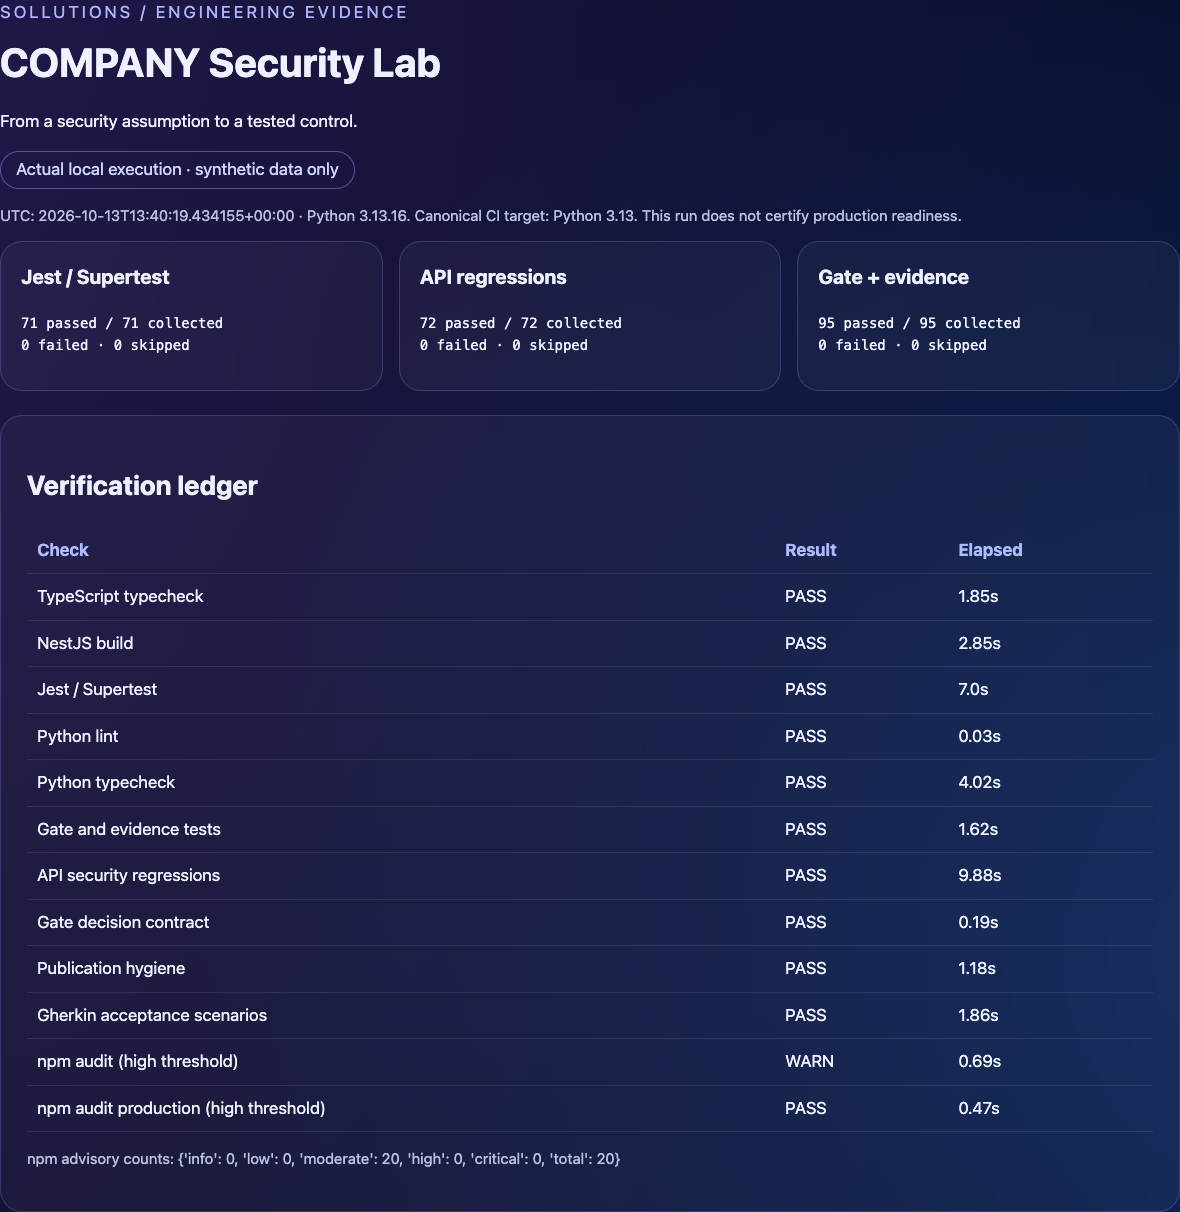
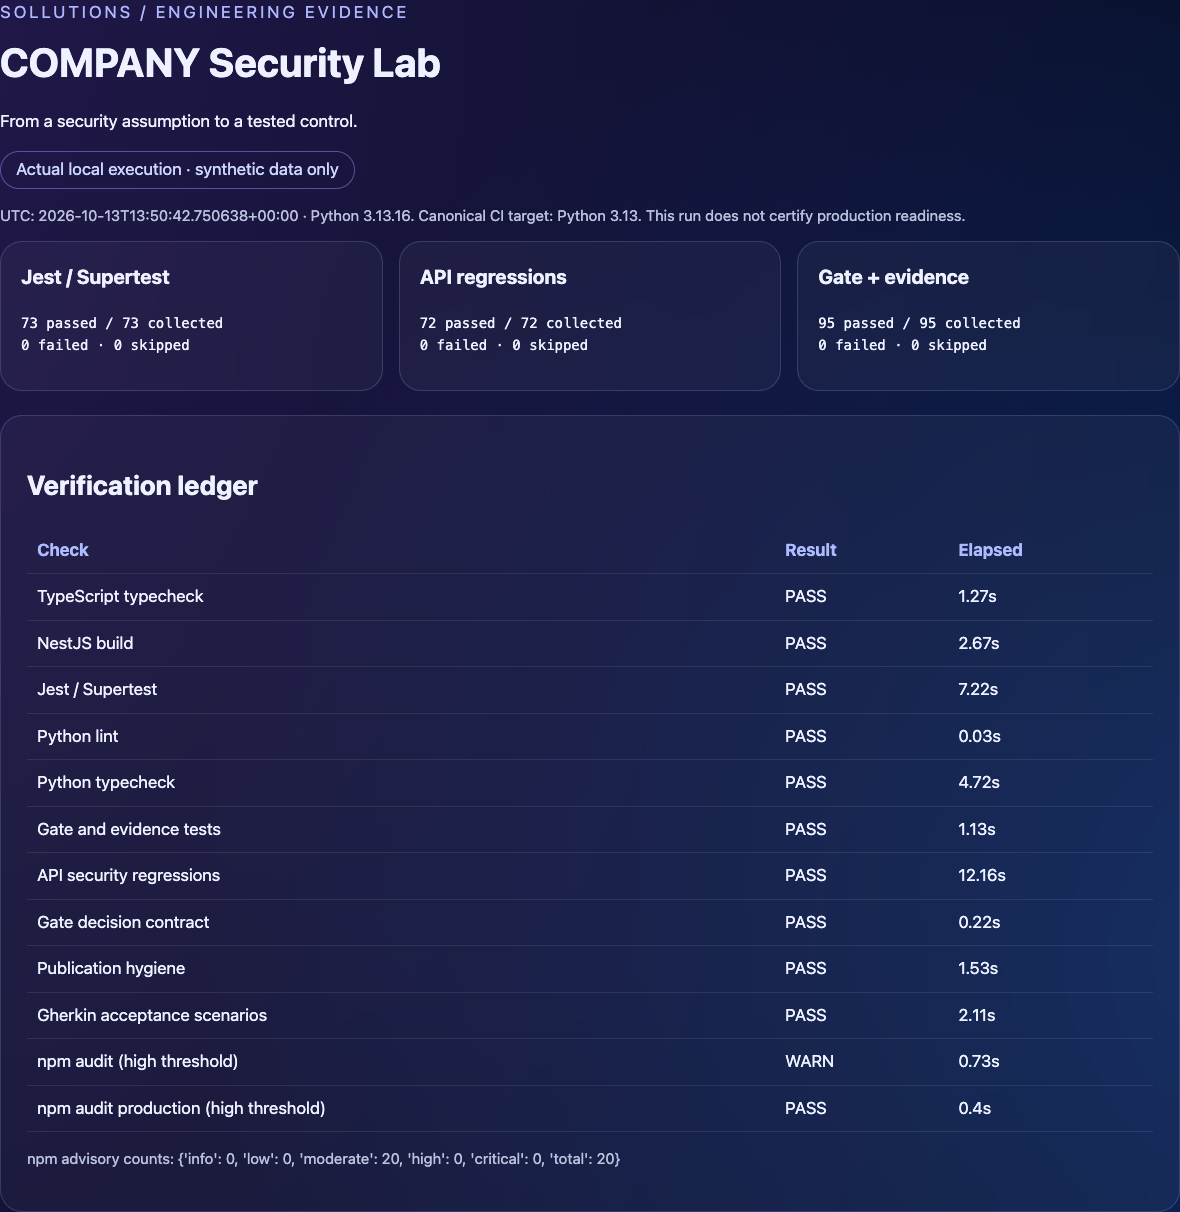
Record CodeQL remediation, verified provenance and final test evidence

diff --git a/docs/evidence/github-ci-verification-2026-10-13.md b/docs/evidence/github-ci-verification-2026-10-13.md
@@ -37,11 +37,16 @@ Commit: `8ac4cbefb6e7afe21a5c78daed598ff67d7d9377`.
 
 Historical failed runs remain visible. Successful checks do not erase earlier failures or unresolved risks.
 
-## Prioritization and next actions
-
 ## Public integration phase
 
-Repository visibility was changed to public with the owner's explicit approval after the private-phase checks passed. Public CodeQL/deep verification and release provenance were dispatched separately: [deep run](https://github.com/SollutionsIT/security_lab_2/actions/runs/38407384264), [release run](https://github.com/SollutionsIT/security_lab_2/actions/runs/38407388676). Their conclusions must be checked before calling these integrations verified.
+Repository visibility was changed to public with the owner's explicit approval after the private-phase checks passed.
+
+- [First public deep run](https://github.com/SollutionsIT/security_lab_2/actions/runs/38407384264): **SUCCESS**, including actual CodeQL analysis/SARIF upload, container/SBOM and isolated API/ZAP. CodeQL found three source warnings; successful execution was not treated as zero findings.
+- CodeQL triage: `js/polynomial-redos` identified repeated rescanning by the XML tag regex. The scanner now excludes nested opening delimiters; the existing 32 KiB input cap remains. Two `js/path-injection` alerts identified request-name flows into download filesystem operations. Strict UUID/extension validation and confinement already existed; no traversal exploit was demonstrated. Download now resolves the server-owned repository key and reads one `O_NOFOLLOW` file handle with size/type checks, avoiding the lstat/read symlink race. No rule suppression or source exclusion was added to hide these findings.
+- [CodeQL reanalysis](https://github.com/SollutionsIT/security_lab_2/actions/runs/38408100980) on commit `b8c01b1a24d970b78e7482a5d10801cc189f8625`: the CodeQL job passed and downloaded SARIF contains **zero findings**. Two regression tests cover maximum-size malformed XML delimiters and replacement upload symlinks.
+- [Fresh native verification](https://github.com/SollutionsIT/security_lab_2/actions/runs/38408109348): **SUCCESS**, 73 Jest, 72 API, 95 gate/evidence and 14 Gherkin cases; no skips. The full local command also passed after these code changes. README screenshots use this later actual artifact; the earlier 71-case record above remains historical.
+- [Release evidence](https://github.com/SollutionsIT/security_lab_2/actions/runs/38407388676): **SUCCESS**. Built a Docker candidate, scanned/gated it, generated an actual image CycloneDX SBOM, retained tar/checksum and created GitHub build-provenance attestation. Downloaded tar checksum passed and `gh attestation verify ... --repo SollutionsIT/security_lab_2` exited successfully. This run attests the pre-CodeQL-fix commit `8ac4cbefb6e7afe21a5c78daed598ff67d7d9377`, not later source; no registry push or production deployment occurred.
+- Pull Requests were initially disabled by the repository owner, preventing API creation. They were enabled with explicit owner approval; [PR #11](https://github.com/SollutionsIT/security_lab_2/pull/11) exercises the real PR workflow. Dependency review initially failed because Dependency graph was disabled. After enabling that prerequisite, the current PR dependency-review job passed. This diff contains no dependency upgrades, so it demonstrates integration execution, not detection of a deliberately introduced vulnerable package.
 
 ## Prioritization and next actions
 

diff --git a/PROJECT_STATUS.md b/PROJECT_STATUS.md
@@ -112,3 +112,7 @@ Full npm audit retains 20 moderate development dependency entries; production-on
 The public change was authorized after these jobs and publication review passed. Full-history Gitleaks checked all eight anonymized commits with no findings. Author identity uses Sollutions and the GitHub noreply email. README screenshots are now reviewed actual hosted-runner native evidence, not the earlier 11 October images. Raw reports, private documents and runtime dependencies remain gitignored.
 
 CodeQL and release attestation were separately dispatched after publication; their final results are recorded in the verification report. GitLab remote execution and Kubernetes deployment/enforcement remain unverified; no production deployment is claimed.
+
+### Public CodeQL and release follow-up
+
+The first public deep run completed all jobs. CodeQL reported three warnings; after boundary changes and two regression tests, actual reanalysis SARIF contained zero findings. Fresh native CI passed 73 Jest, 72 API, 95 gate/evidence and 14 Gherkin scenarios. The README screenshots now reflect that later 73-test artifact. Dependency review passed on the real handover PR after enabling its Dependency graph prerequisite. Release CI completed build/scan/gate/SBOM/checksum and GitHub provenance; the downloaded candidate's checksum and attestation verification passed. Exact commits/run links and residual WARN findings are in the linked verification report. Earlier snapshots retain their original counts.

diff --git a/README.md b/README.md
@@ -31,7 +31,7 @@ Start with [six evidence-backed case studies](docs/security-case-studies.md), [m
 
 ## See it working
 
-The screenshots below come from the [successful GitHub native run on 13 October 2026](https://github.com/SollutionsIT/security_lab_2/actions/runs/38406660665), not fabricated dashboards. “Local execution” in the report means loopback HTTP inside the GitHub runner, not a customer environment. It passed 71 Jest, 72 API, 95 gate/evidence tests and 14 Gherkin scenarios with no skips. Exact runtime, results and limitations are in [PROJECT_STATUS.md](PROJECT_STATUS.md). The banner above is a conceptual AI-generated illustration.
+The screenshots below come from the [successful GitHub native run on 13 October 2026](https://github.com/SollutionsIT/security_lab_2/actions/runs/38408109348), not fabricated dashboards. “Local execution” in the report means loopback HTTP inside the GitHub runner, not a customer environment. It passed 73 Jest, 72 API, 95 gate/evidence tests and 14 Gherkin scenarios with no skips. Exact runtime, results and limitations are in [PROJECT_STATUS.md](PROJECT_STATUS.md). The banner above is a conceptual AI-generated illustration.
 
 ![Actual local verification summary](docs/assets/evidence-overview.png)
 
